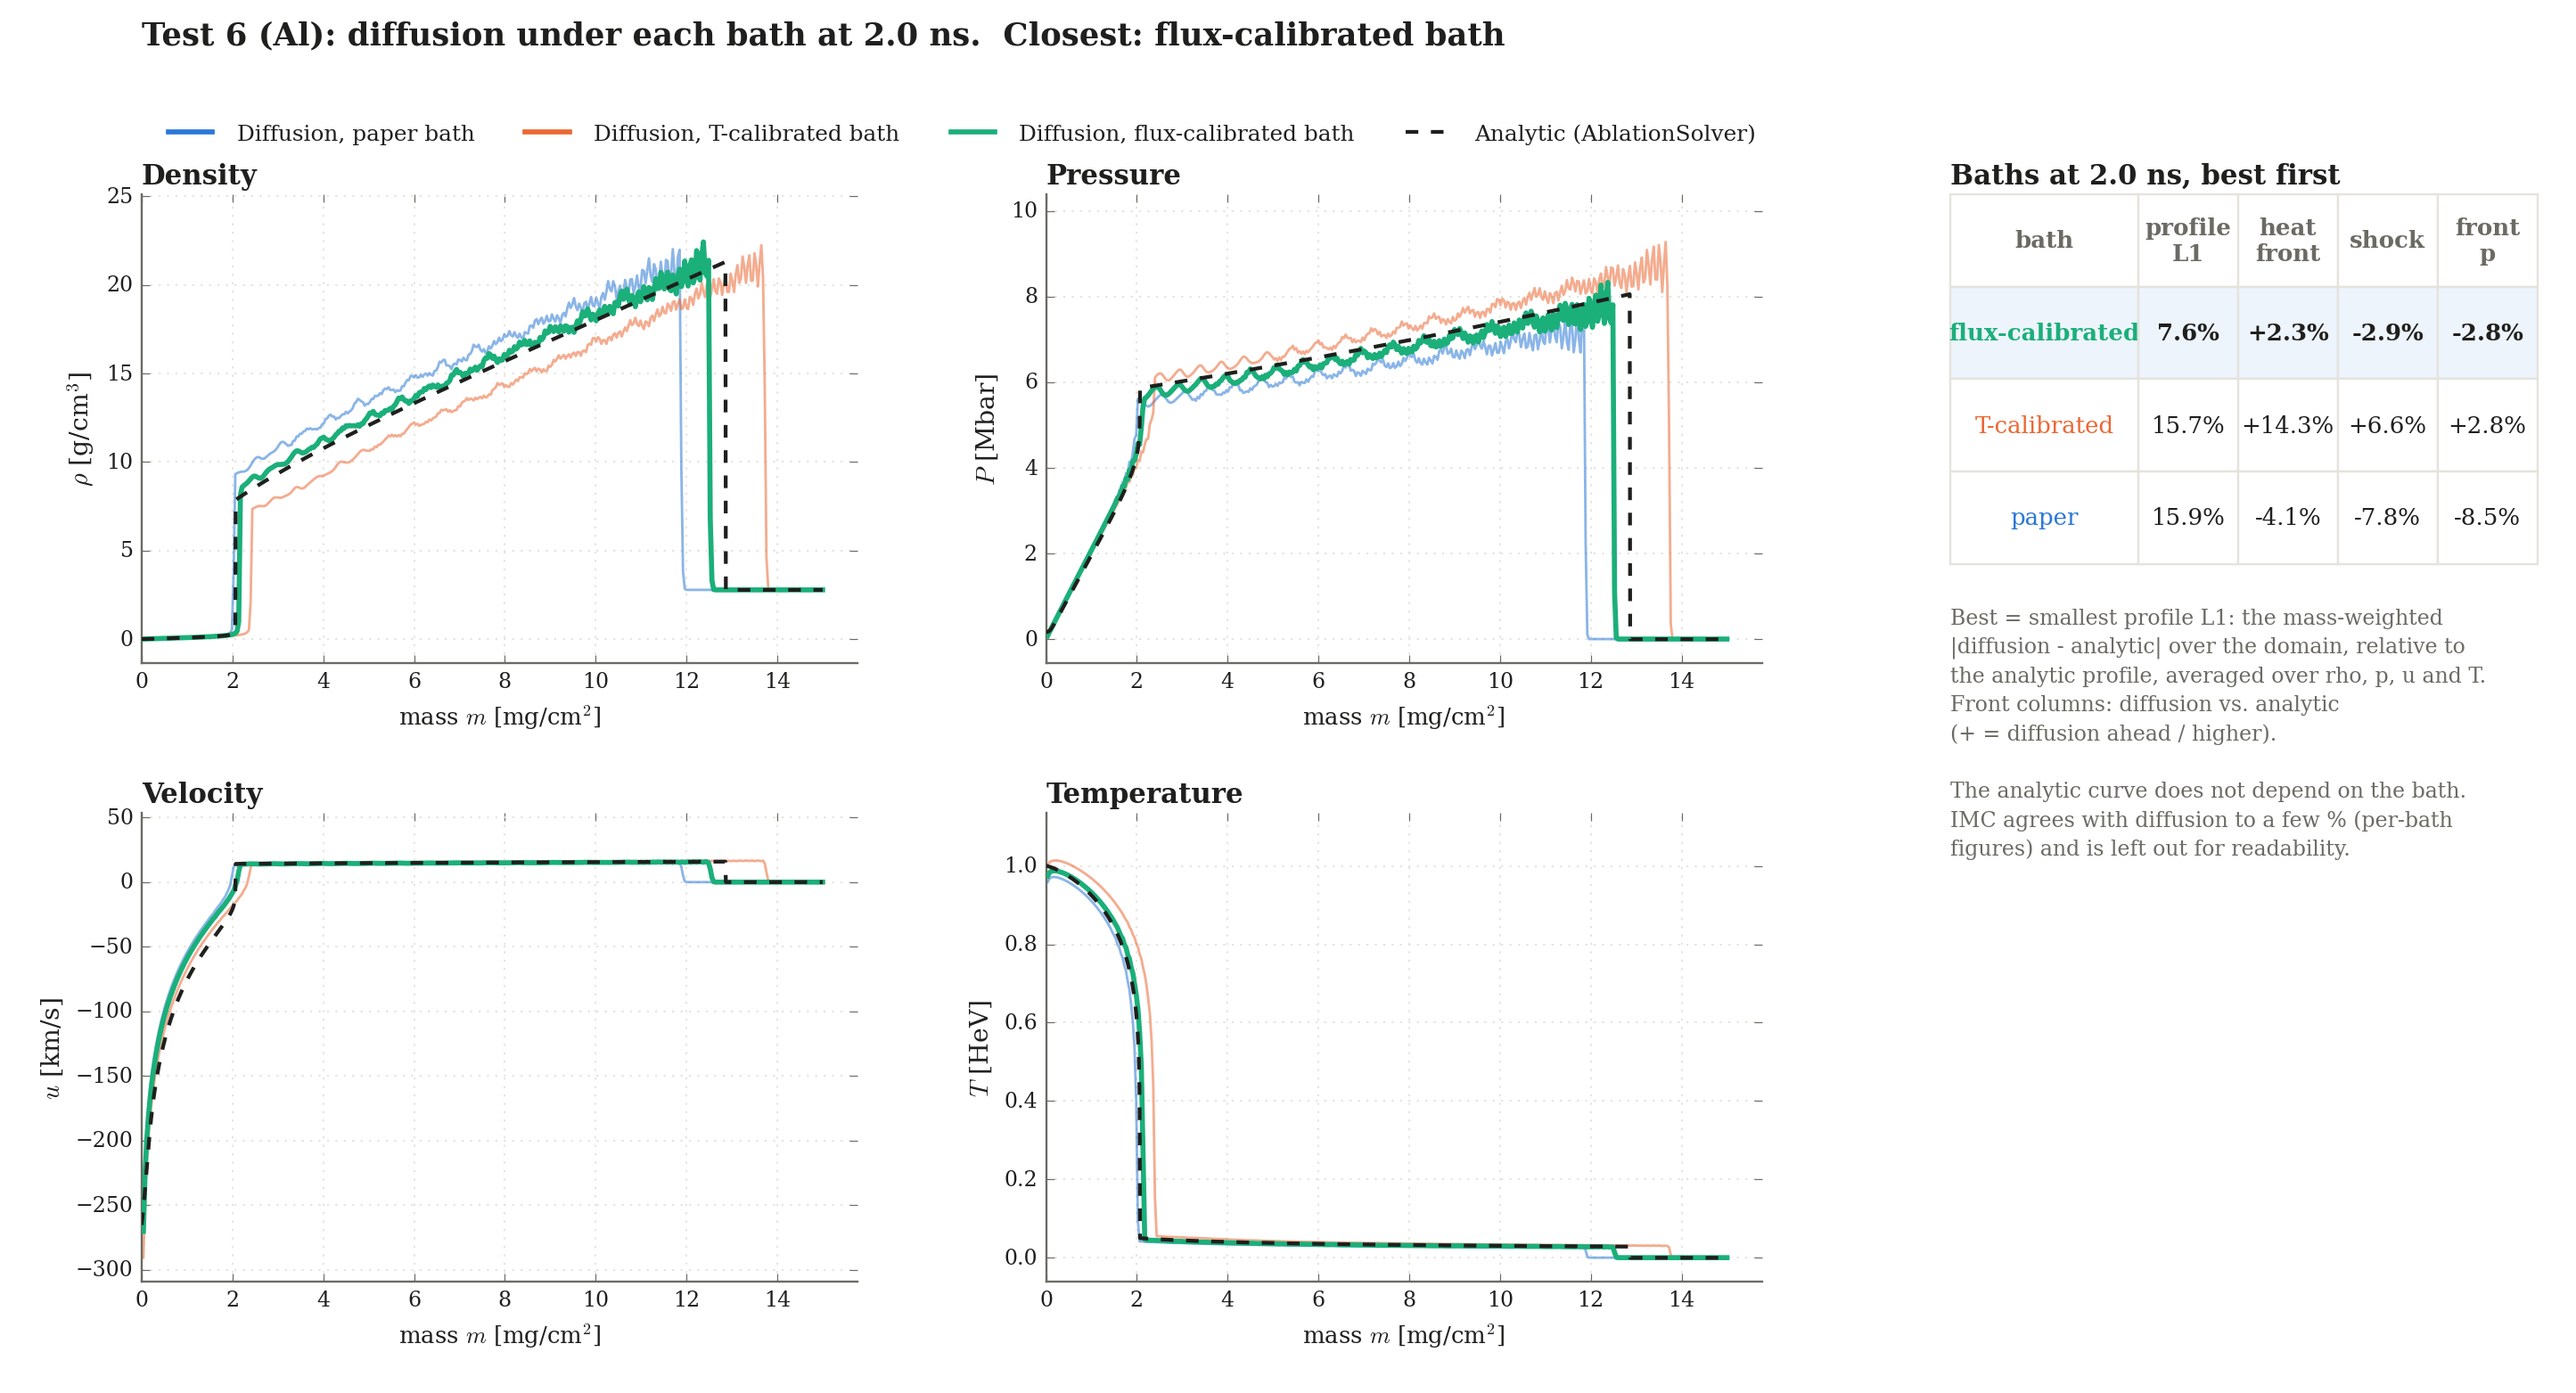
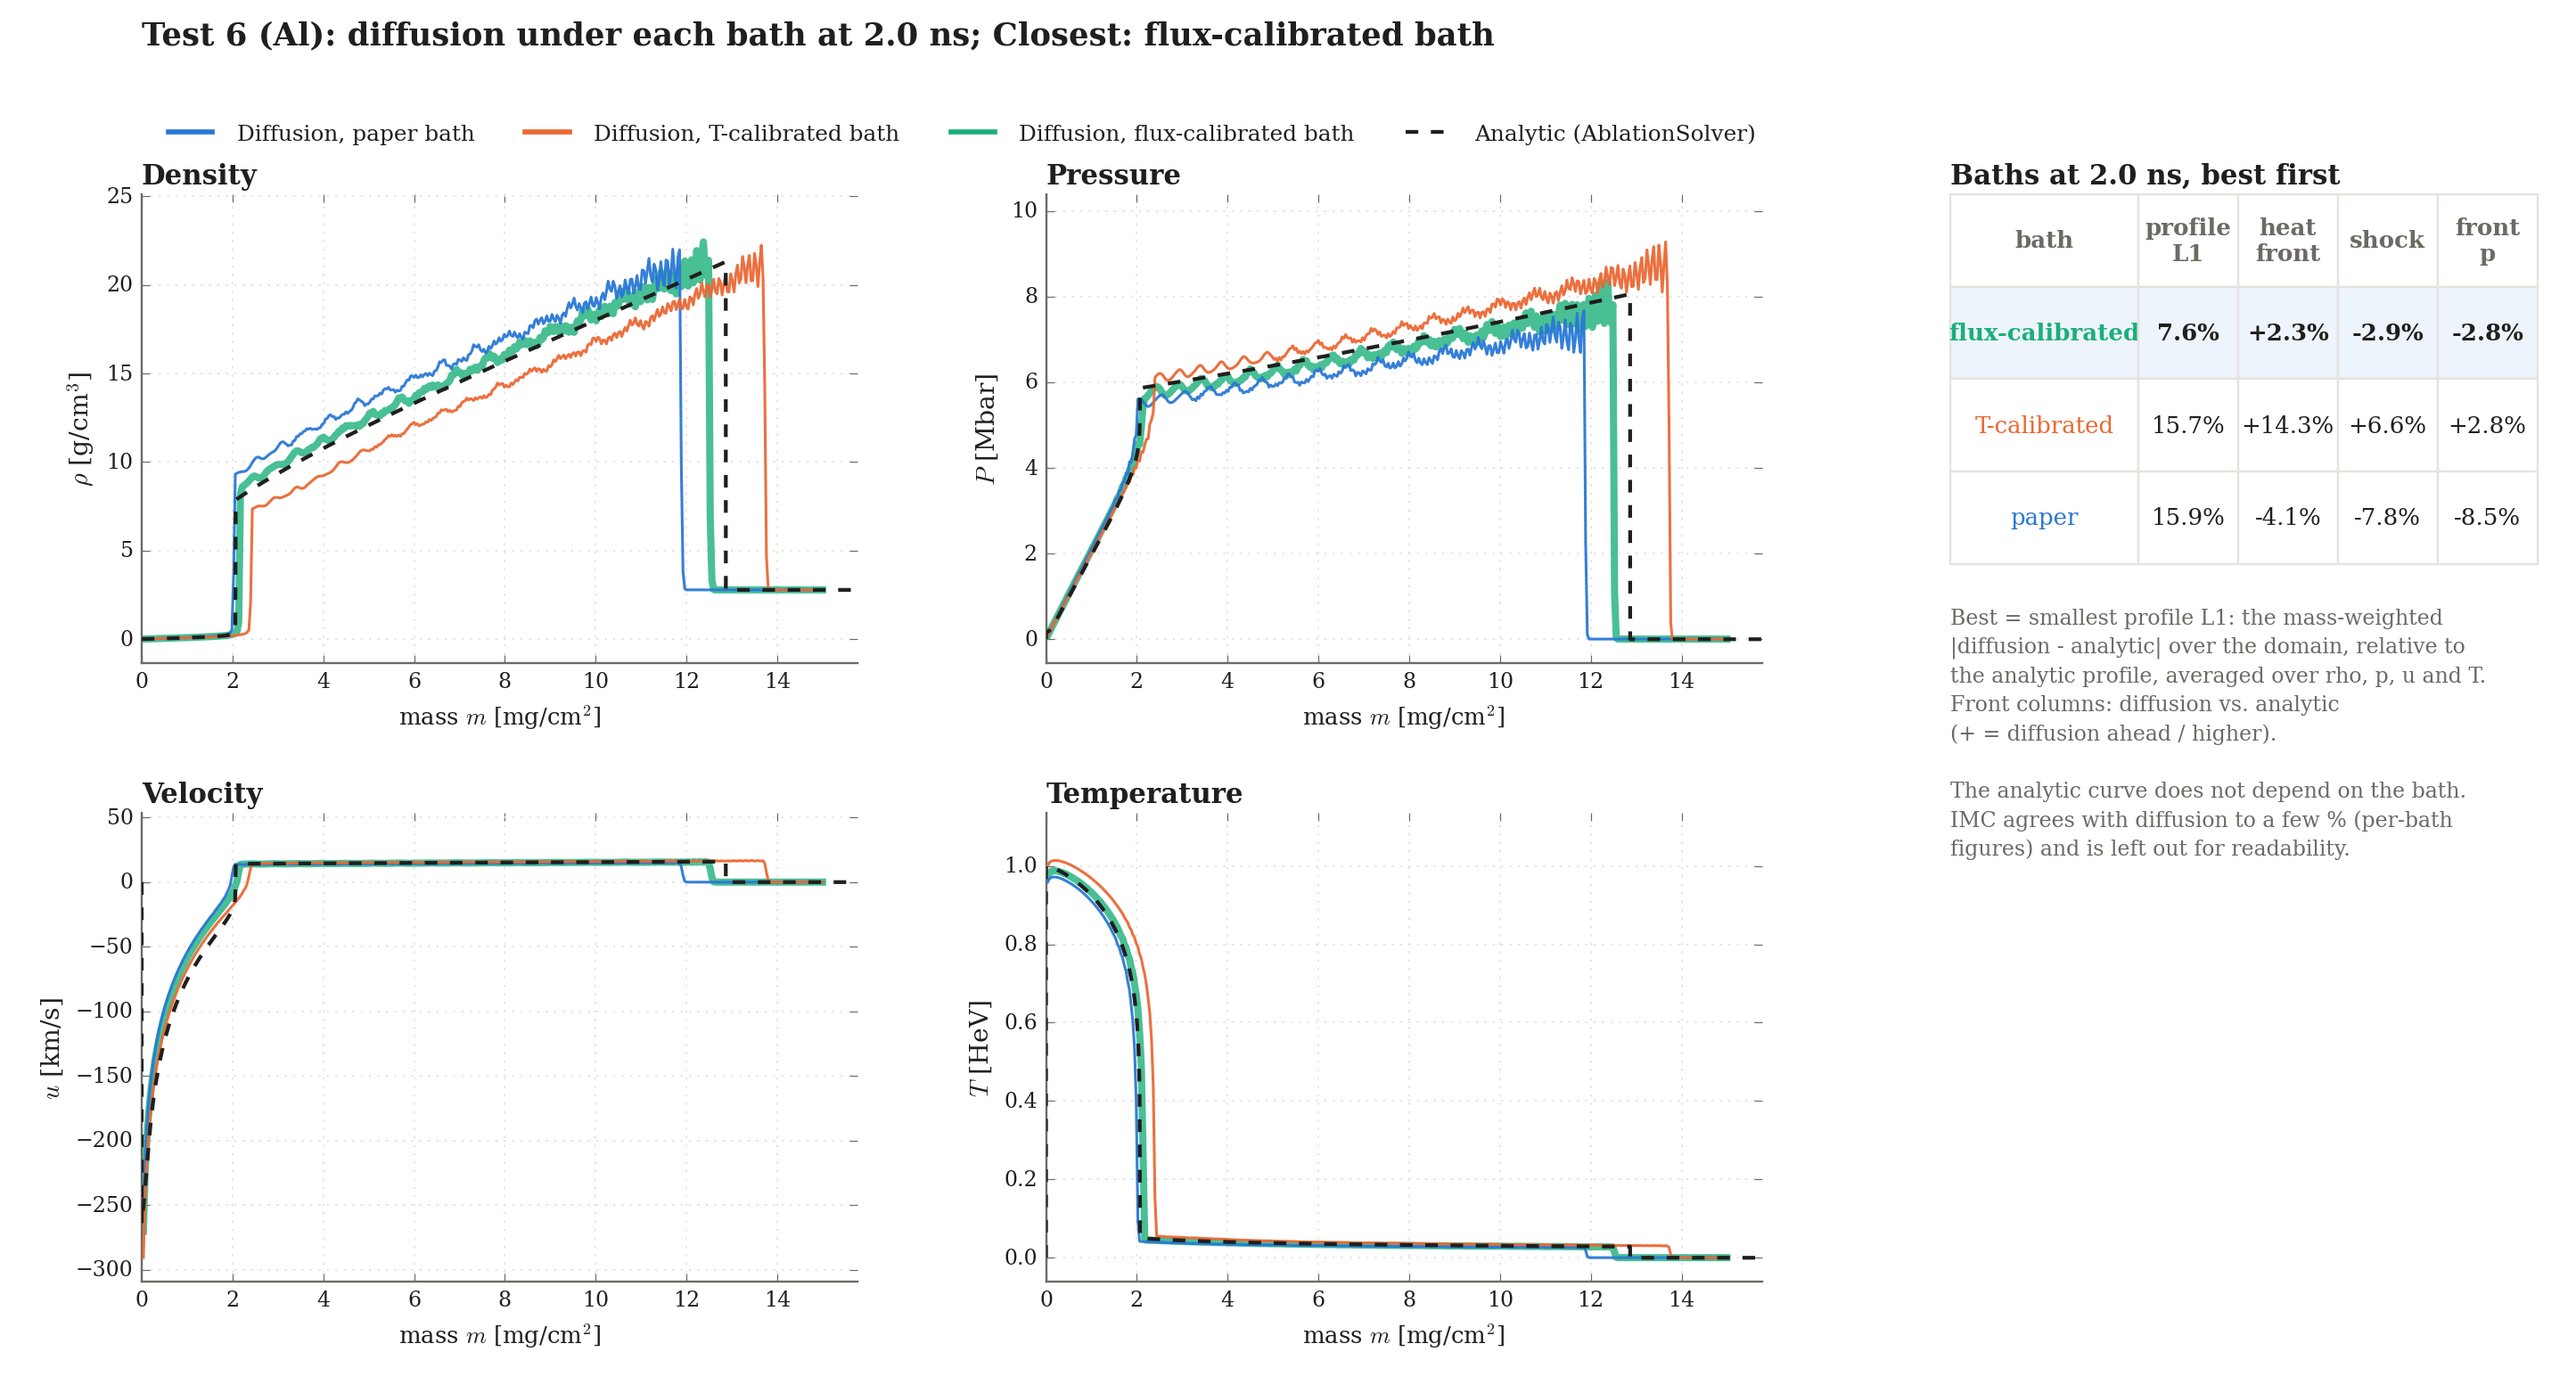
Overnight runs, part 1: sweep mesh convergence, flux-bath IMC, Test 2 and Test 3 flux bath
omega sweep: register_fine (2.5x the cells below omega = 0.4, Test 3's 0.3 mg/cm^2 cap from
0.4) and IMC with the flux-calibrated bath; mesh_convergence.png. On the fine mesh every
front moves by <= 0.5 points for omega <= -0.4 and <= 1.3 points for -0.2 ... +0.2; at
+0.4 the cap moves the shock mass from -3.3% to -0.7%.
Test 2: flux calibration (3 runs, 0.19%), diffusion and 3 IMC seeds with it.
Test 3: fine-mesh (1237 cells) diffusion with the flux-calibrated bath, figures and views.
Overlays: the closest bath drawn wide underneath and the others thin on top, so coinciding
baths stay visible; bath_calibration carries its own short-log-axis tick helper.

diff --git a/src/rad_hydro_sim/verification/omega_sweep.py b/src/rad_hydro_sim/verification/omega_sweep.py
@@ -108,6 +108,23 @@ def register(omega: float) -> str:
     return label
 
 
+def register_fine(omega: float) -> str:
+    """The same case on a finer mesh, label <label>_fine, sharing the preset (and its flux table):
+    2.5x the cells of the uniform-mass mesh below GRADED_FROM; above it, the graded mesh with
+    Test 3's fine-mesh cap of 0.3 mg/cm^2 per cell (test3_smooth)."""
+    label = register(omega)
+    fine = label + "_fine"
+    if fine in ivd.HYDRO_CASES:
+        return fine
+    spec = ivd.HYDRO_CASES[label]
+    if omega < GRADED_FROM:
+        spec = replace(spec, N=int(round(2.5 * spec.N)), store_every=100)   # ~1e3 frames, not ~3e3
+    else:
+        spec = replace(spec, config=tuple(spec.config) + (("max_cell_mass", 3e-4),), store_every=2000)
+    ivd.HYDRO_CASES[fine] = spec
+    return fine
+
+
 def analytic_fronts(omega: float, times):
     """{x_f, m_f, x_s, m_s} of the AblationSolver at times (the heat front sits on the shock
     solution's tracer of m_f, as in AblationSolver.solve)."""
@@ -123,26 +140,32 @@ def analytic_fronts(omega: float, times):
     return {k: np.asarray(v) for k, v in out.items()}
 
 
-def run(omega: float, flux=True, imc=False):
+def run(omega: float, flux=True, imc=False, imc_flux=False, fine=False, paper=True):
+    """Paper-bath diffusion (and IMC with imc), the flux calibration and flux-bath diffusion (and
+    IMC with imc_flux); fine: the same on register_fine's mesh, with the coarse mesh's flux table."""
     label = register(omega)
+    run_label = register_fine(omega) if fine else label
     OUT.mkdir(parents=True, exist_ok=True)
     OUT_FLUX.mkdir(parents=True, exist_ok=True)
-    ivd.run_hydro(OUT, label, seeds=(1,) if imc else (), physical=False)
+    if paper:
+        ivd.run_hydro(OUT, run_label, seeds=(1,) if imc else (), physical=False)
     if flux:
         cal = ivd.BATH_CORRECTION_DIR / f"{label.upper()}_flux.txt"
         if not cal.exists():
             print(f"[{label}] calibrating the bath to the energy flux", flush=True)
             ivd.calibrate_bath(label, target="flux")
-        ivd.run_hydro(OUT_FLUX, label, seeds=(), physical=False, bath="calibrated_flux")
+        ivd.run_hydro(OUT_FLUX, run_label, seeds=(1,) if imc_flux else (), physical=False, bath="calibrated_flux")
 
 
-def sim_series(omega: float):
-    """{run name: {t, x_f, m_f, x_s, m_s}} of the runs of this omega that exist."""
-    label = label_of(omega)
+def sim_series(omega: float, fine: bool = False):
+    """{run name: {t, x_f, m_f, x_s, m_s}} of the runs of this omega that exist (fine: on the
+    register_fine mesh)."""
+    label = label_of(omega) + ("_fine" if fine else "")
     found = {}
     for name, path in (("diffusion, paper bath", OUT / f"{label}_diffusion.npz"),
                        ("IMC, paper bath", OUT / f"{label}_imc1.npz"),
-                       ("diffusion, flux-calibrated bath", OUT_FLUX / f"{label}_diffusion.npz")):
+                       ("diffusion, flux-calibrated bath", OUT_FLUX / f"{label}_diffusion.npz"),
+                       ("IMC, flux-calibrated bath", OUT_FLUX / f"{label}_imc1.npz")):
         if path.exists():
             r = np.load(path)
             # before ~1% of t_end there is no shock yet and the front finder returns the domain edge
@@ -157,7 +180,8 @@ def sim_series(omega: float):
 # the flux-calibrated bath narrow on top, so both stay visible
 STYLE = {"diffusion, paper bath": dict(color="#2a78d6", lw=3.4, alpha=0.75),
          "IMC, paper bath": dict(color="#184f95", lw=1.4, ls=(0, (4, 2))),
-         "diffusion, flux-calibrated bath": dict(color="#1baf7a", lw=1.6)}
+         "diffusion, flux-calibrated bath": dict(color="#1baf7a", lw=1.6),
+         "IMC, flux-calibrated bath": dict(color="#127a55", lw=1.4, ls=(0, (4, 2)))}
 INK, MUTED, GRID = "#1f1f1d", "#6b6a64", "#e4e3dd"
 PANELS = (("x_f", r"heat front $x_f$ [$\mu$m]", 1e4), ("m_f", r"heat front $m_f$ [mg/cm$^2$]", 1e3),
           ("x_s", r"shock $x_s$ [$\mu$m]", 1e4), ("m_s", r"shock $m_s$ [mg/cm$^2$]", 1e3))
@@ -283,17 +307,71 @@ def plot_summary(omegas, path: Path, t: float = 2e-9):
     return rows
 
 
+def plot_convergence(omegas, path: Path, t: float = 2e-9):
+    """Deviation from the solver at t against omega on the default mesh (solid) and the
+    register_fine mesh (open markers, dotted), diffusion with each bath."""
+    import matplotlib
+    matplotlib.use("Agg")
+    import matplotlib.pyplot as plt
+    from matplotlib.lines import Line2D
+
+    baths = ("diffusion, paper bath", "diffusion, flux-calibrated bath")
+    rows = {}
+    for w in omegas:
+        an = analytic_fronts(w, [t])
+        coarse, fine = sim_series(w), sim_series(w, fine=True)
+        rows[w] = {b: {key: (100 * (at(coarse[b], key, t) / an[key][0] - 1),
+                             100 * (at(fine[b], key, t) / an[key][0] - 1)) for key, *_ in PANELS}
+                   for b in baths if b in coarse and b in fine}
+    fig, axes = plt.subplots(2, 2, figsize=(12.5, 8.4), sharex=True)
+    for ax, (key, ylabel, _) in zip(axes.flat, PANELS):
+        for b in baths:
+            pts = [(w, r[b][key]) for w, r in rows.items() if b in r and (w, key) not in UNRESOLVED]
+            if not pts:
+                continue
+            color = STYLE[b]["color"]
+            ws = [p[0] for p in pts]
+            ax.plot(ws, [p[1][0] for p in pts], color=color, lw=2.0, marker="o", ms=6)
+            ax.plot(ws, [p[1][1] for p in pts], color=color, lw=1.4, ls=":", marker="o", ms=7,
+                    markerfacecolor="white", markeredgecolor=color, markeredgewidth=1.6)
+        ax.axhline(0, color=MUTED, lw=1)
+        ax.margins(x=0.04, y=0.08)
+        ax.set_title(ylabel.split(" [")[0], color=INK, fontsize=12, loc="left", fontweight="bold")
+        ax.set_ylabel("simulation vs. analytic [%]", color=INK, fontsize=10.5)
+        _style(ax)
+    for ax in axes[1]:
+        ax.set_xlabel(r"$\omega$", color=INK, fontsize=12)
+        ax.set_xticks(sorted(rows))
+    handles = [Line2D([0], [0], color=STYLE[b]["color"], lw=2.0, marker="o", ms=6, label=f"{b}, default mesh")
+               for b in baths]
+    handles += [Line2D([0], [0], color=STYLE[b]["color"], lw=1.4, ls=":", marker="o", ms=7, markerfacecolor="white",
+                       markeredgecolor=STYLE[b]["color"], markeredgewidth=1.6, label=f"{b}, fine mesh") for b in baths]
+    fig.legend(handles=handles, loc="upper left", bbox_to_anchor=(0.06, 0.96), ncol=2, frameon=False,
+               fontsize=10, labelcolor=INK)
+    fig.suptitle(rf"Mesh convergence of the gold $\omega$ sweep at {t * 1e9:g} ns: default vs. fine mesh "
+                 r"(2.5$\times$ the cells; $\omega \geq 0.4$: cells $\leq$ 0.3 mg/cm$^2$)",
+                 x=0.06, ha="left", fontsize=13, fontweight="bold", color=INK, y=0.99)
+    fig.tight_layout(rect=(0, 0, 1, 0.9))
+    fig.savefig(path, dpi=160)
+    plt.close(fig)
+    return rows
+
+
 def main(argv=None):
     logging.disable(logging.INFO)
     ap = argparse.ArgumentParser()
     ap.add_argument("--run", nargs="*", type=float, default=None, help="omegas to simulate")
     ap.add_argument("--no-flux", action="store_true", help="skip the flux calibration and its run")
     ap.add_argument("--imc", action="store_true", help="also IMC (one seed, paper bath)")
+    ap.add_argument("--imc-flux", action="store_true", help="also IMC (one seed) with the flux-calibrated bath")
+    ap.add_argument("--fine", action="store_true", help="the finer mesh of register_fine")
+    ap.add_argument("--no-paper", action="store_true", help="skip the paper-bath runs")
     ap.add_argument("--figures", action="store_true")
     args = ap.parse_args(argv)
     if args.run is not None:
         for w in args.run:
-            run(w, flux=not args.no_flux, imc=args.imc)
+            run(w, flux=not args.no_flux, imc=args.imc, imc_flux=args.imc_flux, fine=args.fine,
+                paper=not args.no_paper)
     if args.figures:
         done = [w for w in OMEGAS if (OUT / f"{label_of(w)}_diffusion.npz").exists()]
         for w in done:
@@ -302,6 +380,11 @@ def main(argv=None):
             plot_omega(w, path)
             print(f"  wrote {path.relative_to(ivd.REPO)}", flush=True)
         rows = plot_summary(done, FIG / "fronts_vs_omega.png")
+        conv = plot_convergence(done, FIG / "mesh_convergence.png")
+        for w, r in conv.items():
+            print(f"  convergence omega {w:+.1f}: " + "; ".join(
+                f"{b}: " + ", ".join(f"{k} {c:+.1f} -> {fi:+.1f}%" for k, (c, fi) in d.items()) for b, d in r.items()),
+                flush=True)
         for w, r in rows.items():
             print(f"  omega {w:+.1f}: " + "; ".join(f"{n}: " + ", ".join(f"{k} {v:+.1f}%" for k, v in d.items())
                                                 for n, d in r.items()), flush=True)

diff --git a/src/rad_hydro_sim/verification/bath_calibration.py b/src/rad_hydro_sim/verification/bath_calibration.py
@@ -182,6 +182,17 @@ def profile_score(run, k, analytic, t):
     return float(np.mean(errs))
 
 
+def _label_short_log_axes(ax):
+    """On a log axis spanning under ~1.5 decades matplotlib labels no tick; label the 2, 3, 5 ones."""
+    from matplotlib.ticker import FuncFormatter, LogLocator
+
+    for axis, (lo, hi) in ((ax.xaxis, ax.get_xlim()), (ax.yaxis, ax.get_ylim())):
+        if axis.get_scale() == "log" and lo > 0 and hi / lo < 30:
+            axis.set_major_locator(LogLocator(base=10, subs=(1.0, 2.0, 3.0, 5.0)))
+            axis.set_major_formatter(FuncFormatter(lambda v, _: f"{v:g}"))
+            axis.set_minor_formatter(FuncFormatter(lambda v, _: ""))
+
+
 def _style(ax):
     ax.grid(True, color=GRID, lw=0.8)
     ax.set_axisbelow(True)
@@ -243,8 +254,9 @@ def plot_overlay(label: str, path: Path, t: float = 2e-9, region="full", scale=N
         ax = axes[key]
         for b, r in runs.items():
             hl = b == best["bath"]
-            ax.plot(r["m"][k[b]] * 1e3, r[key][k[b]] * fscale, color=BATH_COLOR[b], lw=2.4 if hl else 1.2,
-                    alpha=1.0 if hl else 0.55, zorder=3 if hl else 2)
+            # the closest bath wide underneath, the others thin on top: where baths agree, all stay visible
+            ax.plot(r["m"][k[b]] * 1e3, r[key][k[b]] * fscale, color=BATH_COLOR[b], lw=3.4 if hl else 1.3,
+                    alpha=0.8 if hl else 0.95, zorder=2 if hl else 3)
         ax.plot(m_dense * 1e3, np.asarray(sol[ref], dtype=float) * fscale, color=INK, ls="--", lw=1.8, zorder=4)
         # y limits from the simulations inside the mass window
         sim = np.concatenate([r[key][k[b]][(r["m"][k[b]] * 1e3 >= x_lo) & (r["m"][k[b]] * 1e3 <= x_hi)] * fscale
@@ -262,7 +274,7 @@ def plot_overlay(label: str, path: Path, t: float = 2e-9, region="full", scale=N
         if log_x:
             ax.set_xscale("log")
         ax.set_xlim(x_lo, x_hi)
-        ivd.label_short_log_axes(ax)
+        _label_short_log_axes(ax)
         ax.set_ylabel(ylabel, color=INK, fontsize=12)
         ax.set_xlabel(r"mass $m$ [mg/cm$^2$]", color=INK, fontsize=11)
         ax.set_title(ref.capitalize(), color=INK, fontsize=13, loc="left", fontweight="bold")
